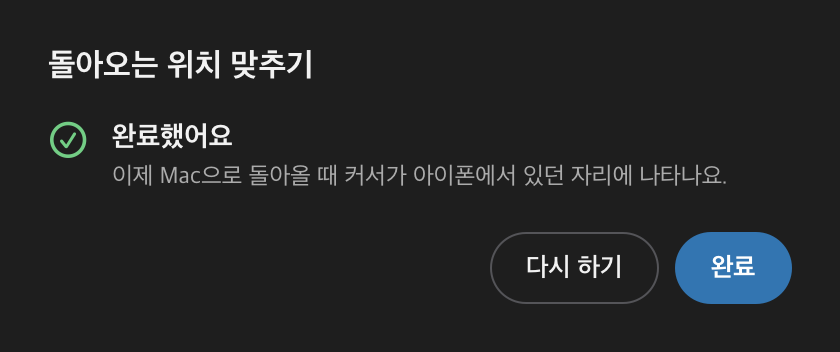
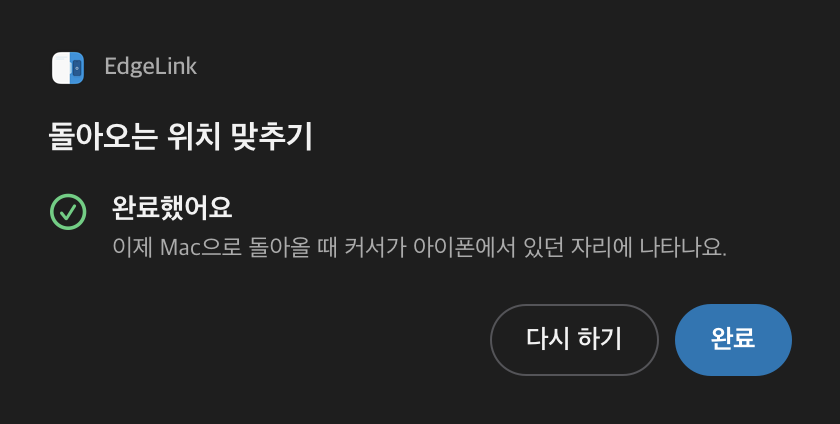
확인 창 맨 위에 앱 아이콘과 EdgeLink 이름 표시
Claude-Session: https://claude.ai/code/session_01Bu3s8rd4cmbJU2pVqA5rhS

diff --git a/Sources/EdgeLink/DialogViews.swift b/Sources/EdgeLink/DialogViews.swift
@@ -12,12 +12,32 @@ struct DialogFrame<Content: View>: View {
     @ViewBuilder var content: Content
 
     var body: some View {
-        VStack(alignment: .leading, spacing: spacing) { content }
+        VStack(alignment: .leading, spacing: spacing) {
+            DialogBrand()
+            content
+        }
             .padding(Space.xl)
             .frame(width: width, alignment: .leading)
             .background(Color.bgWindow)
             .foregroundStyle(Color.textPrimary)
             .noFocusRing()
+    }
+}
+
+/// 확인 창 맨 위 앱 표시. 창 제목 줄을 숨겨서, 어느 앱이 띄운 창인지 알 수 있게 아이콘과 이름을 둔다.
+struct DialogBrand: View {
+    var body: some View {
+        HStack(spacing: Space.s) {
+            Image(nsImage: NSApp.applicationIconImage)
+                .resizable()
+                .interpolation(.high)
+                .frame(width: 20, height: 20)
+                // 아이콘 왼쪽 절반이 흰색이라 흰 바탕에 묻히지 않게 옅은 그림자
+                .shadow(color: .black.opacity(0.18), radius: 1, x: 0, y: 0.5)
+            Text("EdgeLink").font(Typo.font(12, .semibold)).foregroundStyle(Color.textSecondary)
+        }
+        .accessibilityElement(children: .ignore)
+        .accessibilityLabel("EdgeLink")
     }
 }
 

diff --git a/docs/DEVLOG.md b/docs/DEVLOG.md
@@ -2,6 +2,11 @@
 
 날짜별로 결정한 것, 해본 것과 결과, 문제와 해결을 남겨요. 최신이 위에 있어요. 설계 기준은 [DESIGN.md](DESIGN.md)예요.
 
+## 2026-11-27 (확인 창에 앱 표시)
+
+- 사용자: 업데이트 창이 떴는데 EdgeLink 창인지 알기 어렵다. 확인 창은 제목 줄을 숨겨서(`titleVisibility = .hidden`) 어느 앱 창인지 드러나는 곳이 없었다.
+- 모든 확인 창(업데이트, 클립보드, 연결 요청, 단축키 겹침, 페어링 초기화, 위치 맞추기, 연결 로그) 맨 위에 앱 아이콘(20pt)과 "EdgeLink"를 둔다(`DialogBrand`, `DialogFrame` 공통). docs/screens의 확인 창 캡처도 새로 찍음.
+
 ## 2026-11-27 (업데이트를 두 번 하던 문제)
 
 - 사용자: 새 버전이 두 개 쌓여 있으면 하나 받고 다시 하나 더 받아야 한다. 앱은 켤 때 찾은 릴리스(예: 0.4.2)를 상태에 들고 있다가, 그 사이 0.4.3이 나와도 업데이트 버튼을 누르면 들고 있던 0.4.2를 받았다. 다시 켜진 0.4.2가 그제야 0.4.3을 찾음.
